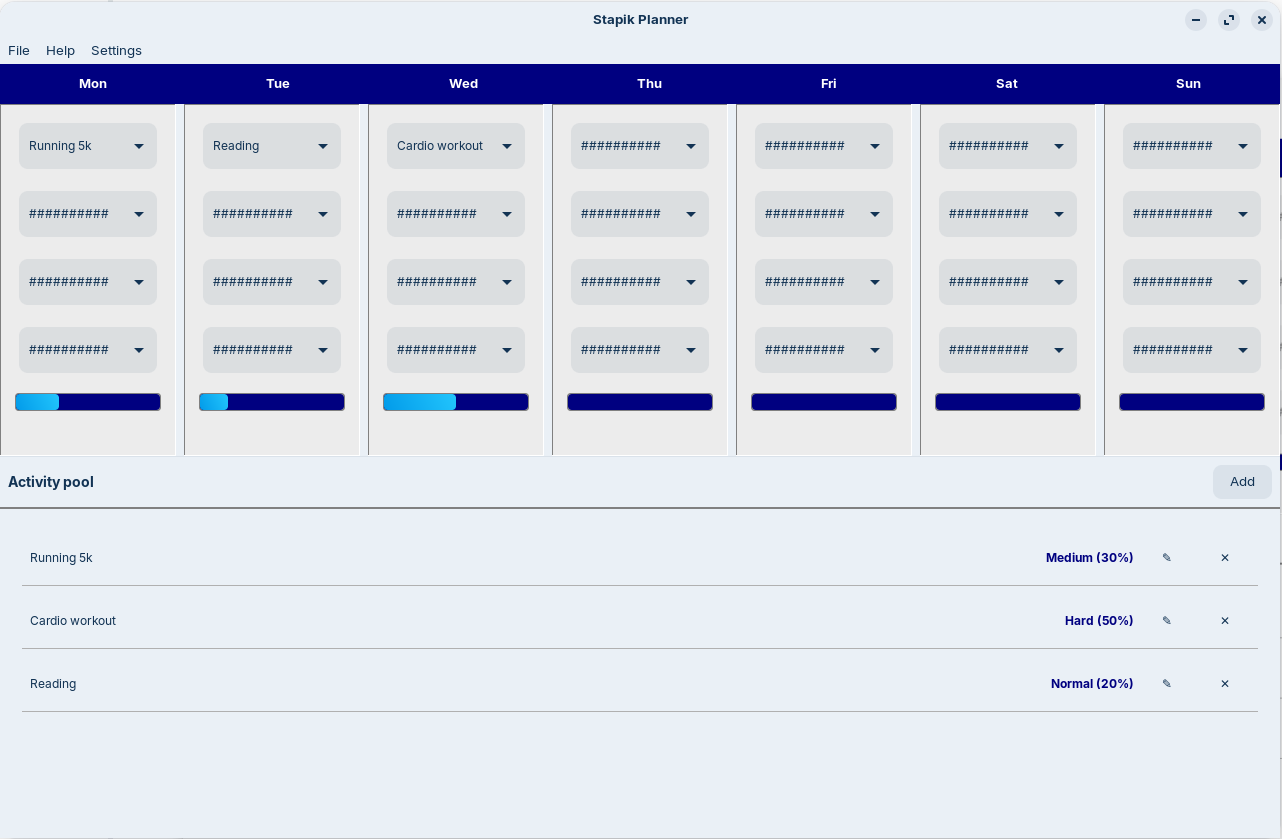
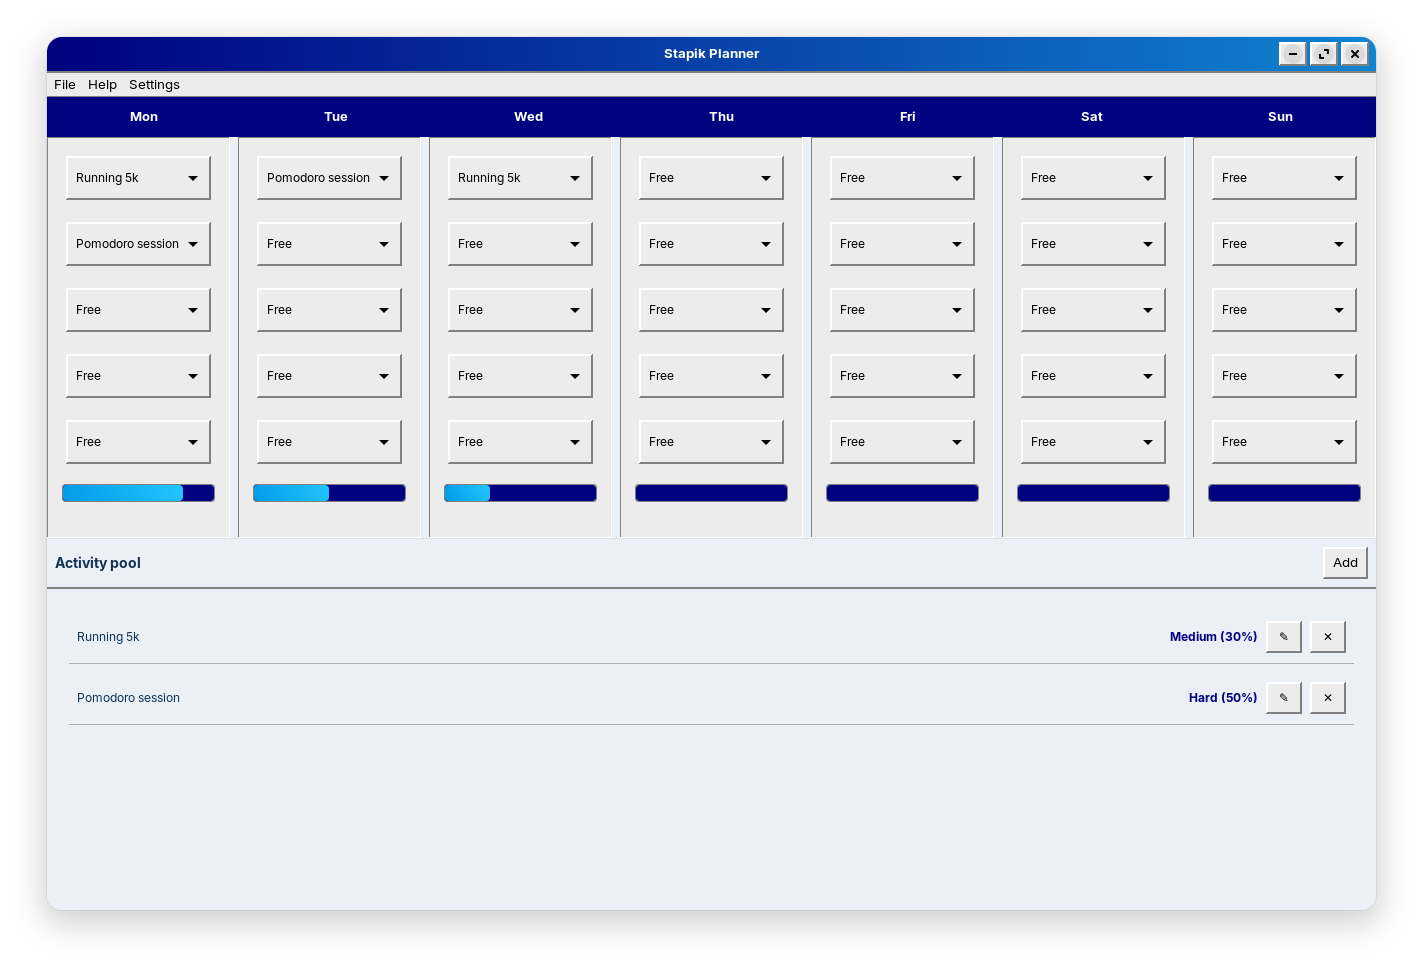
Updating README.

diff --git a/README.md b/README.md
@@ -9,16 +9,17 @@ A desktop weekly activity planner for Linux, written in C++20 using GTK4/gtkmm. 
 - **Weekly schedule grid** - seven day columns (Monday–Sunday), each with a configurable number of activity slots
 - **Activity catalog** - add, edit and delete reusable activities, each with a name and a difficulty level (Light 10%, Normal 20%, Medium 30%, Hard 50%)
 - **Daily load tracking** - a load bar per day shows total workload as a percentage; once a day reaches 100%, its remaining empty slots are locked to prevent overloading
-- **Cloud sync** - save and load data via an external API (compatible with a self-hosted server), with automatic conflict resolution based on timestamps
+- **Cloud sync** - save and load data via [Stapik Cloud](https://github.com/Stapik-Group/stapik-cloud), with optimistic-concurrency conflict resolution and full version history
 - **Multilingual UI** - Polish, English and German interface with instant switching
+- **Three themes** - Classic, Modern and Classic Pink, switchable live from the menu, matching Stapik Calendar
 - **Auto-save** - schedule and catalog data saved locally after every change
-- **Retro aesthetic** — classic look with raised buttons, blue header bar and grey cells, consistent with Stapik Calendar
+- **Retro aesthetic** — classic look with raised buttons, blue header bar and grey cells by default, consistent with Stapik Calendar
 
 ## Dependencies
 
 - `gtkmm-4.0`
 - `libcurl`
-- [`stapik-common`](https://github.com/stapik/stapik-common) (fetched automatically via CMake FetchContent)
+- [`stapik-common`](https://github.com/Stapik-Group/stapik-common) v1.1.6+ (fetched automatically via CMake FetchContent)
 - `nlohmann/json` (fetched automatically via CMake FetchContent, transitively provided by `stapik-common`)
 
 On Ubuntu/Debian:
@@ -91,21 +92,34 @@ Either way, your schedule data, cloud config and language preference remain at `
 
 ## Cloud Sync
 
-The app supports synchronization via a self-hosted API server — the same server and protocol used by Stapik Calendar. Go to **File → Connect**, enter the server URL and API key.
+The app supports synchronization via [Stapik Cloud](https://github.com/Stapik-Group/stapik-cloud) — the same server and protocol used by Stapik Calendar. Go to **File → Connect**, enter the server URL and API key. If a connection is already configured, the app reconnects automatically on startup.
 
 Once connected, the app compares the local file and the cloud copy using a `lastUpdate` timestamp and keeps whichever one is newer, overwriting the other **as a whole document**. There is no field-level or entry-level merging — if both copies changed since the last sync, the older one is fully replaced.
 
-Data is saved locally after every change, and the app also attempts to push it to the cloud right away. If the cloud is unreachable at that moment, the change stays saved locally and the app quietly retries on the next save — no data is lost, but the cloud copy will lag behind until the next successful write. You can also trigger a sync manually from **File → Sync**.
+Data is saved locally after every change, and the app also attempts to push it to the cloud right away. Writes are optimistic-concurrency-checked: if another device saved a newer version in the meantime, the write is rejected, the server's copy is fetched, and the app retries once against that copy before falling back to accepting the server's version. If the cloud is unreachable at that moment, the change stays saved locally and the app quietly retries on the next save — no data is lost, but the cloud copy will lag behind until the next successful write. You can also trigger a sync manually from **File → Sync**.
 
-**Caution for multi-device use:** since conflict resolution is whole-document and last-write-wins, editing the schedule offline on two different machines before either one reconnects can cause one set of changes to be silently discarded. If you use the app on more than one device, make sure to sync (or at least go online) after each editing session to avoid overwriting your own changes.
+**Caution for multi-device use:** since conflict resolution is whole-document, editing the schedule offline on two different machines before either one reconnects can still cause one set of changes to be discarded. Stapik Cloud keeps a version history of every write, so a discarded document isn't gone permanently, but the app itself doesn't yet expose a way to browse or restore old versions. If you use the app on more than one device, make sure to sync (or at least go online) after each editing session to avoid overwriting your own changes.
 
-The API must expose two endpoints:
-- `GET /read?filename=planner.json` — returns `{ "content": "..." }`
-- `POST /write` — accepts `{ "filename": "planner.json", "content": "..." }`
+The app talks to the Stapik Cloud `/documents/{slotKey}` endpoint (slot key `planner.json`), authenticated via an `x-api-key` header. See the [Stapik Cloud API reference](https://github.com/Stapik-Group/stapik-cloud) for details.
+
+If you're upgrading from an app version that used the older, incompatible cloud protocol, the app detects this automatically on first launch and clears the saved connection — you'll need to reconnect once via **File → Connect**.
+
+## Themes
+
+Switch between three themes from **Settings → Theme**: Classic (the original retro look), Modern (flat, minimal), and Classic Pink. The choice applies instantly and is remembered between launches.
+
+## Slots per Day
+
+The number of activity slots per day (3–6) can be changed from **Settings → Slots**. Increasing it adds empty slots to every day; decreasing it truncates each day's plan to the new limit, discarding any activities scheduled beyond it — the app warns you when this happens.
 
 ## Data Storage
 
-Schedule, catalog and settings are stored locally at `~/.local/share/stapikplanner/planner.json`, wrapped with a `lastUpdate` timestamp used for cloud sync. Cloud config at `~/.local/share/stapikplanner/config.json`. Language preference at `~/.local/share/stapikplanner/locale.txt`.
+Schedule, catalog and settings are stored locally at `~/.local/share/stapikplanner/planner.json`, wrapped with a `lastUpdate` timestamp used for cloud sync. Cloud config at `~/.local/share/stapikplanner/config.json`. Language preference at `~/.local/share/stapikplanner/locale.txt`. Theme preference at `~/.local/share/stapikplanner/theme.txt`.
+
+## Themes
+
+![Screenshot](screenshots/screenshot_2.png)
+![Screenshot](screenshots/screenshot_3.png)
 
 ## TODO
 
@@ -115,7 +129,8 @@ Schedule, catalog and settings are stored locally at `~/.local/share/stapikplann
 - [x] Cloud sync with conflict resolution
 - [x] Multilingual UI (PL/EN/DE)
 - [x] `.deb` package for easier distribution
-- [ ] In-app UI for changing the number of slots per day
+- [x] In-app UI for changing the number of slots per day
+- [x] Multiple themes (Classic / Modern / Classic Pink)
 - [ ] Copy a day's plan to another day
 - [ ] Weekly load summary / overview
 - [ ] Flatpak package
